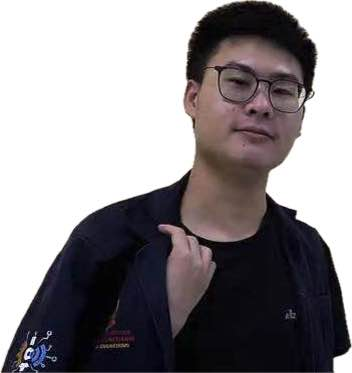
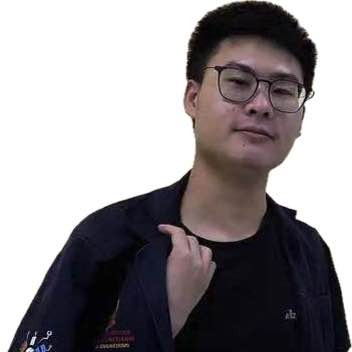
fix 01

diff --git a/members/index.html b/members/index.html
@@ -45,14 +45,14 @@
     <div class="carousel-inner">
       <div class="carousel-item bg-secondary">
         <div class="d-flex justify-content-center">
-          <img class="img-header" src="./assets/kmitlweb01.png" alt="">
+          <img class="img-header" src="./assets/bg_sakura_3.jpg" alt="">
         </div>
         <div class="container">
           <div class="carousel-caption">
            <div class="text1201">
             <h1 class="text-orange">
-                <span>#1201-1400</span> World Ranking</h1>
-            <p class="text-dark">QS World University Rankings</p>
+                <span class="text-orange">#1201-1400</span> <span class="text-dark-lg">World Ranking</span></h1>
+            <p class="text-dark-lg">QS World University Rankings</p>
            </div>
             <!-- <p><a class="btn btn-lg btn-primary" href="#">Visit Website</a></p> -->
           </div>
@@ -64,8 +64,8 @@
         </div>
         <div class="container">
           <div class="carousel-caption">
-            <h1>The Land of Skills and Oppotunitties</h1>
-            <p style="color: rgb(77, 75, 75);">Integrity Enthusiasm Diligence</p>
+            <h1 class="text-dark-lg">The Land of Skills and Oppotunitties</h1>
+            <p class="text-dark-lg">Integrity Enthusiasm Diligence</p>
             <p><a class="btn btn-lg btn-primary" href="https://www.kmitl.ac.th/">Learn more</a></p>
           </div>
         </div>
@@ -97,7 +97,7 @@
         <center><h1 class="pb-3">Members</h1></center>
         <div class="row justify-content-center" id="members">
             <div class="col-lg-4 text-center">
-              <img class="bd-placeholder-img rounded-circle" width="140" height="140" src="./assets/spy.jpg"></rect></ii>
+              <img class="bd-placeholder-img rounded-circle img" width="140" height="140" src="./assets/sapai_2.jpg"></rect></ii>
               <h2 class="fw-normal">Nattapat</h2>  
               <p>66010255 </p>
                 <p><a class="btn btn-secondary" href="#sapai">View details »</a></p>
@@ -162,7 +162,7 @@
           </ul>
       </div>
       <div class="col-md-5 order-md-1">
-        <img src="./assets/spy.jpg" alt="Profile Ken Picture" class="img-fluid" width="500" height="500">
+        <img src="./assets/sapai_2.jpg" alt="Profile Ken Picture" class="img-fluid" width="500" height="500">
               <title>Placeholder</title>
               <rect width="100%" height="100%" fill="var(--bs-secondary-bg)"></rect>
           <!--    <text x="50%" y="50%" fill="var(--bs-secondary-color)" dy=".3em">500x500</text> -->

diff --git a/members/styles/style1.css b/members/styles/style1.css
@@ -91,3 +91,18 @@ display: none;
 }
 }
 
+@media screen and (max-width: 1200px) {
+    .text-dark-lg {
+        color: #fff;
+    }
+}
+
+@media screen and (min-width: 1200px) {
+    .text-dark-lg {
+        color: #000;
+    }
+}
+
+.img {
+    
+}

diff --git a/members/styles/carousel.css b/members/styles/carousel.css
@@ -83,7 +83,7 @@ body {
     margin-top: 7rem;
   }
 }
-  .carousel-caption h1 span
+  .carousel-caption h1 .text-orange
   {
     font-size: 5rem; 
     color: coral;
